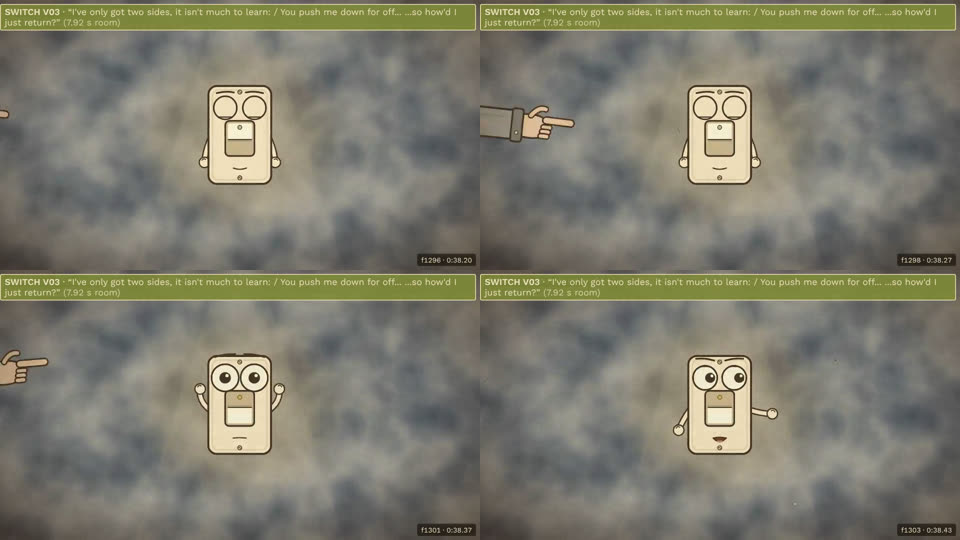
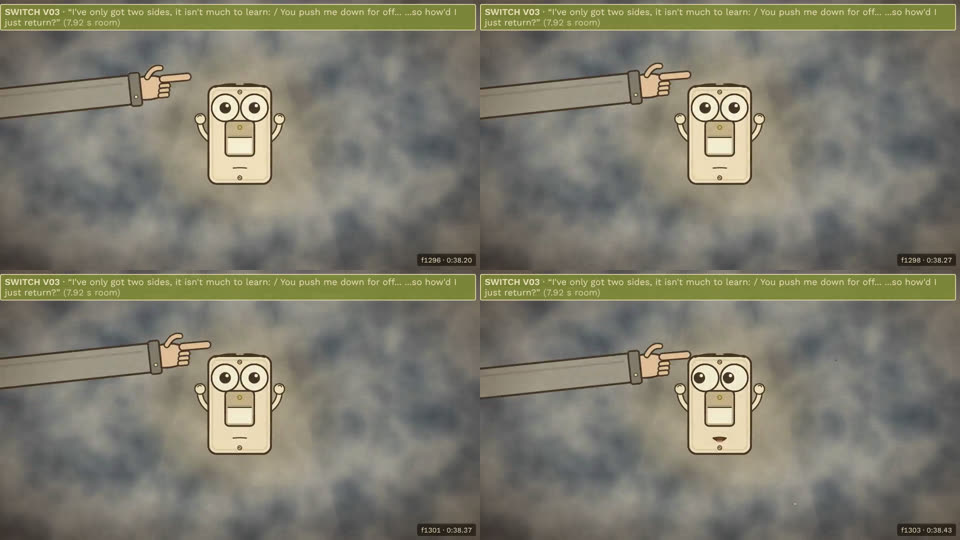
M3 revised: S11 lands on the click, S57a-c added, post-roll (card G placeholder, S68 stand-in); brief rev 61
Claude-Session: https://claude.ai/code/session_01U1tVYjDQe516Mp7MHbmFPv

diff --git a/remotion/src/shots/End.tsx b/remotion/src/shots/End.tsx
@@ -149,11 +149,58 @@ const Classroom: React.FC<{ f: number; g: number; lineId?: string }> = ({ f, g, 
   </Bg>
 );
 
-// S57: the final chorus, through the second-to-last line
-export const S57: ShotC = ({ f, g }) => {
-  const id = ["L61", "L62", "L63", "L64"].reverse().find((l) => g >= at(line(l).start) - 6) ?? "L61";
-  const g0 = at(line(id).start) - 6;
-  return <Classroom f={g - g0 + 6} g={g} lineId={id} />;
+// S57: the final chorus's first line, "Default on! Default on!": the whole classroom
+export const S57: ShotC = ({ f, g }) => <Classroom f={f} g={g} lineId="L61" />;
+
+// a row of desks seen low and close: three kids and their rockers; `gag` stages S57b's attempts to switch them off
+const Desks: React.FC<{ f: number; g: number; len: number; lineId: string; gag?: boolean }> = ({ f, g, len, lineId, gag }) => (
+  <Bg id="s57a" seed={57} base={C.mustard}>
+    {[0, 1, 2].map((i) => {
+      const x = 380 + i * 580, seed = 3 + i * 2;
+      const beat = (len / 3) * i; // S57a: rockers rock ON one after another; S57b: one gag per kid, in turn
+      const t = f - beat;
+      const covered = gag && t > 6 && t < len / 3 - 10;
+      const on = gag ? !covered || t > len / 3 - 14 : f > beat + 6;
+      return (
+        <g key={i}>
+          <g transform={`translate(${x}, 420) scale(1.25)`}><Kid seed={seed} mouth={mouthAt(g + seed * 2, "narrator")} look={gag ? [0.4, 0.9] : [0, 0]} /></g>
+          <rect x={x - 260} y={700} width={520} height={60} fill={C.cardigan} stroke={C.ink} strokeWidth={7} />
+          <rect x={x - 240} y={760} width={480} height={330} fill={C.cardiganShade} stroke={C.ink} strokeWidth={7} />
+          <g transform={`translate(${x + 120}, ${640 - (on && !gag ? bump(t, 6, 5) * 24 : 0)})`}><MiniRocker on={on ? 1 : 0} s={1.1} /></g>
+          {/* S57b's three gags: a book over it, a hand over it, tucked into the desk; each pops back ON */}
+          {gag && covered && i === 0 && <rect x={x + 30} y={560} width={190} height={150} rx={8} fill={C.teal} stroke={C.ink} strokeWidth={6} transform={`rotate(-6, ${x + 120}, 640)`} />}
+          {gag && covered && i === 1 && <ellipse cx={x + 120} cy={630} rx={90} ry={70} fill={(["#f0c49b", "#c98b5e", "#8d5a3a"])[i]} stroke={C.ink} strokeWidth={6} />}
+          {gag && covered && i === 2 && <rect x={x + 40} y={590} width={160} height={110} fill={C.cardigan} stroke={C.ink} strokeWidth={6} />}
+          {gag && !covered && t > len / 3 - 14 && t < len / 3 - 4 && <text x={x + 120} y={520} textAnchor="middle" fontFamily={BUBBLE} fontSize={60} fill={C.orange} stroke={C.ink} strokeWidth={4} paintOrder="stroke">ON!</text>}
+        </g>
+      );
+    })}
+    <Lyric id={lineId} f={f} g={g} y={1030} size={58} />
+  </Bg>
+);
+// S57a: "It was there when we woke up…": low and close along a row of desks; the rockers rock ON one after another
+export const S57a: ShotC = ({ f, g, len }) => <Desks f={f} g={g} len={len} lineId="L62" />;
+// S57b: "We can hide it, we can mute it…": the kids try the chorus gags on their own switches; each rocks back ON
+export const S57b: ShotC = ({ f, g, len }) => <Desks f={f} g={g} len={len} lineId="L63" gag />;
+
+// S57c: "But the switch is just a picture…": close on Switch in the front row, mouthing along; a corner of his plate
+// lifts like a sticker, and he presses it flat again
+export const S57c: ShotC = ({ f, g, len }) => {
+  const lift = ez(f, len * 0.35, len * 0.5) * (1 - ez(f, len * 0.7, len * 0.8));
+  const d = 20 + lift * 90;
+  const fx = 125, fy = 195;
+  return (
+    <Bg id="s57c" seed={57} base={C.mustard}>
+      <rect x={0} y={860} width={W} height={220} fill={C.cardigan} stroke={C.ink} strokeWidth={8} />
+      {[260, 1660].map((x, i) => <g key={x} transform={`translate(${x}, 560) scale(1.1)`} opacity={0.85}><Kid seed={8 + i} mouth={mouthAt(g + i * 3, "narrator")} /></g>)}
+      <g transform="translate(960, 520) scale(1.25)">
+        <clipPath id="s57c-peel"><path d={`M-600,-600 L600,-600 L600,${fx + fy - d - 600} L${fx + fy - d - 600},600 L-600,600 Z`} /></clipPath>
+        <g clipPath="url(#s57c-peel)"><Switch pose={lift > 0.3 ? "startled" : "neutral"} mouth={mouthAt(g, "narrator")} armR={lift > 0.5 ? 60 : 25} look={lift > 0.3 ? [0.6, 0.7] : [0, 0]} blink={blink(g, 11)} /></g>
+        <path d={`M${fx},${fy - d} L${fx - d},${fy} L${fx - d},${fy - d} Z`} fill={C.white} stroke={C.ink} strokeWidth={5} strokeLinejoin="round" />
+      </g>
+      <Lyric id="L64" f={f} g={g} y={1030} size={58} />
+    </Bg>
+  );
 };
 
 // S58: last "Default on!": pull back; the classroom is on the TV from S29, with the winking tile from S30
@@ -242,6 +289,19 @@ export const S64: ShotC = ({ f, g, len }) => {
     </Bg>
   );
 };
+
+// FG: fact card G, after S67's hold (M5 builds the cards; this marks its place and length)
+export const FG: ShotC = () => (
+  <Bg id="fg" seed={70}>
+    <text x={W / 2} y={470} textAnchor="middle" fontFamily={SANS} fontWeight={600} fontSize={60} fill={C.ink}>Fact card G</text>
+    <text x={W / 2} y={560} textAnchor="middle" fontFamily={SANS} fontSize={40} fill={C.inkSoft}>Who wrote this, and Anthropic's own default-on toggle (built in M5)</text>
+  </Bg>
+);
+
+// S68: the creator's disclosure, real footage the human shoots, with its caption (brief rev 61)
+export const S68: ShotC = () => (
+  <Stand label="S68 · REAL FOOTAGE · TOP-DOWN, ~5 s" note="Google and Microsoft swag laid out neatly on a plain surface, Noogler hat on top. Caption: “Made by a former Google and Microsoft employee, who holds no stock in either. Nothing here comes from the inside: every claim is from public reporting, sourced on the cards that follow.”" />
+);
 
 // S65-S67: real material. Until it lands, stand-ins say what goes there; the film layer is off from S65 (Cut.tsx)
 export const S65: ShotC = () => <Stand label="S65 · REAL SCREEN CAPTURE" note="The generation screen: style prompt, lyrics, take list (the human supplies it)" />;

diff --git a/remotion/src/shots/Chorus.tsx b/remotion/src/shots/Chorus.tsx
@@ -35,22 +35,25 @@ export const S09: ShotC = ({ f, g }) => <Lament f={f} g={g} />;
 export const S35: ShotC = ({ f, g }) => <Lament f={f} g={g} dim={1} hand />;
 
 // S10: "You push me down for off…": he pulls himself down to OFF, exhales, closes his eyes
-export const S10: ShotC = ({ f, g }) => {
+// In its last half second the grey sleeve starts reaching in, so S11's flip (8 frames) lands on the click
+export const S10: ShotC = ({ f, g, len }) => {
   const off = ez(f, 4, 16);
+  const reach = ez(f, len - 15, len) * 0.82;
   return (
     <Night id="pc">
       <g transform={`translate(${W / 2}, ${540 + off * 8})`}>
         <Switch pose={off > 0.5 ? "relaxed" : "sad"} toggle={1 - off} mouth={mouthAt(g, "switch")} armL={60 - off * 50} armR={60 - off * 50} blink={off > 0.9 ? 1 : 0} />
       </g>
+      {reach > 0 && <g transform="translate(-40, 480) rotate(6)"><Hand reach={reach} length={880} /></g>}
     </Night>
   );
 };
 
-// S11 / S36: [click]: the grey sleeve enters from frame left and flips him back up (S36 faster)
+// S11 / S36: [click]: the grey sleeve flips him back up on the click. In S11 (8 frames) the hand is already reaching
+// (S10) and the flip lands on frame 0; S12 carries the withdrawal. S36, the faster second time, enters and flips here
 const Flip: React.FC<{ f: number; len: number; fast?: boolean }> = ({ f, len, fast }) => {
-  const k = fast ? 0.5 : 1;
-  const reach = ez(f, 0, 6 * k) * (1 - ez(f, len - 6 * k, len));
-  const flipped = f >= 4 * k;
+  const reach = fast ? ez(f, 0, 3) * (1 - ez(f, len - 3, len)) : 0.82 + 0.18 * ez(f, 0, 2);
+  const flipped = fast ? f >= 2 : true;
   return (
     <Night id="pc" dim={fast ? 1 : 0}>
       <g transform={`translate(${W / 2}, 540)`}><Switch pose={flipped ? "startled" : "relaxed"} toggle={flipped ? 1 : 0} blink={flipped ? 0 : 1} /></g>
@@ -61,14 +64,18 @@ const Flip: React.FC<{ f: number; len: number; fast?: boolean }> = ({ f, len, fa
 export const S11: ShotC = ({ f, len }) => <Flip f={f} len={len} />;
 export const S36: ShotC = ({ f, len }) => <Flip f={f} len={len} fast />;
 
-// S12: "…so how'd I just return?": he looks left and right; nobody's there
-export const S12: ShotC = ({ f, g }) => (
-  <Night id="pc">
-    <g transform={`translate(${W / 2}, 540)`}>
-      <Switch pose="curious" toggle={1} mouth={mouthAt(g, "switch")} look={[Math.sin(f / 9) > 0 ? -1 : 1, 0]} />
-    </g>
-  </Night>
-);
+// S12: "…so how'd I just return?": the hand slips away (S11's withdrawal); he looks left and right; nobody's there
+export const S12: ShotC = ({ f, g }) => {
+  const reach = 1 - ez(f, 0, 8);
+  return (
+    <Night id="pc">
+      <g transform={`translate(${W / 2}, 540)`}>
+        <Switch pose={f < 8 ? "startled" : "curious"} toggle={1} mouth={mouthAt(g, "switch")} look={f < 10 ? [-1, 0] : [Math.sin(f / 9) > 0 ? -1 : 1, 0]} />
+      </g>
+      {reach > 0 && <g transform="translate(-40, 460) rotate(-6)"><Hand reach={reach} length={880} /></g>}
+    </Night>
+  );
+};
 
 // S13: "Default on! Default on!": bright mustard; bubble-letter lyrics with a bouncing ball; rockers flick on in time
 export const S13: ShotC = ({ f, g }) => (

diff --git a/remotion/src/timing.ts b/remotion/src/timing.ts
@@ -26,13 +26,13 @@ export const beats = map.beats.map(at);
 export const downbeats = map.downbeats.map(at);
 export const events = map.events;
 
-// every shot in order, with its frame range; S67 holds HOLD_S past the audio (brief) before the fact cards
-export const HOLD_S = 2;
-export const END = at(map.events.audio_end + HOLD_S);
-export const shots = map.shots.map((s, i) => ({
-  id: s.id, cue: s.cue, frame: s.frame as number,
-  end: i + 1 < map.shots.length ? (map.shots[i + 1].frame as number) : END,
-}));
+// every shot in order, with its frame range, plus the post-roll so far: S67 holds 2 s past the audio, then fact
+// card G ("FG") and S68 (map.post; the other fact cards and the end card come in M5)
+export const END = map.video_end_frame;
+const ordered = [...map.shots.map((s) => ({ id: s.id, cue: s.cue, frame: s.frame as number })),
+  ...map.post.filter((p) => p.id === "FG").map((p) => ({ id: p.id, cue: "Fact card G (who wrote this; Anthropic's default-on toggle)", frame: p.frame }))]
+  .sort((a, b) => a.frame - b.frame);
+export const shots = ordered.map((s, i) => ({ ...s, end: i + 1 < ordered.length ? ordered[i + 1].frame : END }));
 
 // placeholder mouths until M4's Rhubarb pass: inside an aligned word (or a proposed Switch slot) the mouth cycles
 // open shapes every 3 frames; otherwise it rests

diff --git a/scripts/timing_map.py b/scripts/timing_map.py
@@ -48,6 +48,9 @@ SLOTS = {  # Switch line: aligned line IDs (timing/words.json) of the generator'
 TAG_AFTER = {"V04": "L14", "V11": "L38"}  # ungenerated tags: after this line's last word
 TAG_LEN = 2.4  # proposed length of an ungenerated "(On, on, on...)" tag, seconds
 V21_GAP = 0.6  # V21 starts this long after the Narrator's last word
+HOLD_S = 2.0  # S67 holds on room tone after the audio ends (brief); keep in step with remotion/src/timing.ts
+CARD_S = 4.0  # a fact card (brief: about four seconds each)
+S68_S = 5.0  # S68, the swag shot (brief: about five seconds)
 SECTIONS = [  # brief section (one composition each): the as-sung sections it covers
     ("Intro", ["Intro"]), ("Verse 1", ["Verse 1"]), ("Pre-chorus 1", ["Pre-chorus 1"]), ("Chorus 1", ["Chorus 1"]),
     ("Lesson", ["Lesson"]), ("Verse 2", ["Verse 2"]), ("Pre-chorus 2 and Chorus 2", ["Pre-chorus 2", "Chorus 2"]),
@@ -206,6 +209,7 @@ def main():
         "S60": (ob[0], "L66", "first outro click"),
         "S63": (events["popup_chime"], "L68", "chime in the gap; \"Huh.\" is not sung"),
         "S67": (v21["proposed"][0], "L71", "V21 over the band's tail; the hand flips on the last note; holds past the audio"),
+        "S68": (audio_end + HOLD_S + CARD_S, "L71", "post-roll: after fact card G"),
     }
     cur = 0
     for s in shots:
@@ -238,12 +242,20 @@ def main():
         cur = hit[0]
         s.update(t=round(hit[1], 3), line=lines[cur]["id"],
                  how="cue words" + (f" (first {hit[2]} not sung)" if hit[2] else ""))
+    # the post-roll so far (brief, End card and fact cards): S67's hold, fact card G, then S68; the other cards are M5's
+    post = [{"id": "FG", "what": "fact card G", "t": round(audio_end + HOLD_S, 3), "len_s": CARD_S},
+            {"id": "S68", "what": "the swag shot (real footage)", "t": round(audio_end + HOLD_S + CARD_S, 3), "len_s": S68_S}]
+    for p in post:
+        p["frame"] = fr(p["t"])
+    video_end = fr(audio_end + HOLD_S + CARD_S + S68_S)
     for k, s in enumerate(shots):
         s["frame"] = fr(s["t"])
-        nxt = shots[k + 1]["t"] if k + 1 < len(shots) else None
+        nxt = shots[k + 1]["t"] if k + 1 < len(shots) else audio_end + HOLD_S + CARD_S + S68_S
+        if s["id"] == "S67":
+            nxt = post[0]["t"]  # S67 hands over to fact card G
         s["end"] = nxt
         s["frame_end"] = fr(nxt) if nxt is not None else None
-    shots[-1]["note"] = "real footage; the shot runs past the audio (hold two seconds on room tone, then black)"
+    next(s for s in shots if s["id"] == "S67")["note"] = "real footage; runs past the audio, holding 2 s on room tone, then fact card G"
 
     for ln in lines:
         ln["frame_start"], ln["frame_end"] = fr(ln["start"]), fr(ln["end"])
@@ -251,7 +263,7 @@ def main():
     out = {"title": TITLE, "fps": FPS, "preroll_s": PREROLL_S, "audio": TRACK, "duration_s": duration,
            "duration_frames": fr(duration), "frame_formula": "round((t + preroll_s) * fps)", "meter": "4/4",
            "bpm_median": round(60 / float(np.median(iv)), 1), "beats": beats["beats"], "downbeats": beats["downbeats"],
-           "events": events, "sections": secs, "switch_slots": slots, "lines": lines, "shots": shots}
+           "events": events, "post": post, "video_end_frame": video_end, "sections": secs, "switch_slots": slots, "lines": lines, "shots": shots}
     Path("timing/map.json").write_text(json.dumps(out, indent=1) + "\n")
 
     md = [f"# Timing map: {TITLE}", "", f"Generated by `scripts/timing_map.py` from `timing/map.json`. {FPS} fps; "

diff --git a/scripts/contact_sheets.py b/scripts/contact_sheets.py
@@ -1,8 +1,8 @@
 """Review aid (brief, Pipeline): one contact sheet per shot, review/<shot>.jpg, from a rendered video of the whole cut.
 Four frames per shot (at 10%, 35%, 65% and 90% of its range on screen) tiled 2x2, each 480 px wide; the render's own
-burn-in names the shot and frame. Shot ranges come from timing/map.json (S67 holds 2 s past the audio, as in
-remotion/src/timing.ts). A section render starts at frame <offset> of the cut; only the shots inside it get sheets.
-Each frame is seeked to directly, so a sheet doesn't decode the whole video.
+burn-in names the shot and frame. Shot ranges come from timing/map.json, with the post-roll so far (fact card G as
+"FG", then S68) and the video's end from it. A section render starts at frame <offset> of the cut; only the shots
+inside it get sheets. Each frame is seeked to directly, so a sheet doesn't decode the whole video.
 
 Usage: python3 -I scripts/contact_sheets.py <video> [<offset> <frames>]
 """
@@ -12,14 +12,13 @@ import sys
 import tempfile
 from pathlib import Path
 
-HOLD_S = 2  # keep in step with remotion/src/timing.ts
-
 
 def ranges():
     m = json.loads(Path("timing/map.json").read_text())
-    end = round((m["events"]["audio_end"] + HOLD_S + m["preroll_s"]) * m["fps"])
-    s = m["shots"]
-    return m["fps"], [(x["id"], x["frame"], s[i + 1]["frame"] if i + 1 < len(s) else end) for i, x in enumerate(s)]
+    s = sorted([(x["id"], x["frame"]) for x in m["shots"]] + [(p["id"], p["frame"]) for p in m["post"] if p["id"] == "FG"],
+               key=lambda x: x[1])
+    end = m["video_end_frame"]
+    return m["fps"], [(sid, a, s[i + 1][1] if i + 1 < len(s) else end) for i, (sid, a) in enumerate(s)]
 
 
 def main(video, offset=0, length=None):

diff --git a/docs/brief.md b/docs/brief.md
@@ -27,7 +27,7 @@
 **Protecting the child**
 
 - His face, name, school and home never appear. The reveal shows hands, a phone or mic, a waveform and a light switch, framed tight so no room details identify the house.
-- Credit him as you choose; the default is "Switch: voiced by a real kid." Record your consent as his guardian in the intervention log.
+- Credit him as you choose; the credit is "Switch: voiced by a child of two ex-Googlers and ex-Microsofties." Record your consent as his guardian in the intervention log.
 - Raw takes stay out of the public repo by default. Publish only the comped, processed lines that are in the final mix, and note in the log that the raw takes are withheld.
 
 ## Recording plan for Switch
@@ -72,7 +72,7 @@
 
 **Characters**
 
-- **Switch.** A cream wall plate with a toggle for a nose, big round eyes, stubby arms and no legs; he travels by hopping off the wall onto other surfaces. Poses: neutral, curious, proud, sad, flipped-on (startled, toggle up) and off (relaxed, toggle down). Seven mouth shapes, driven by the comped Switch track.
+- **Switch.** A cream flat-plate (rocker) wall switch: a flat paddle in the middle of the plate rocks top-in for ON and bottom-in for OFF, with a small pilot light that glows when ON (no lever, so nothing can be misread). Big round eyes, stubby arms and no legs; he travels by hopping off the wall onto other surfaces. Poses: neutral, curious, proud, sad, flipped-on (startled, paddle top-in) and off (relaxed, paddle bottom-in). Seven mouth shapes, driven by the comped Switch track.
 - **The Narrator.** A hand-drawn host in a brown cardigan and wide collar, seen from the waist up, seated on a stool or leaning on a chalkboard. Relaxed and slightly rumpled; he never looks at the off-screen hand. Seven mouth shapes, driven by the Narrator stem.
 - **The off-screen hand.** Only a cuff and fingers, entering from the frame edge. Same grey sleeve every time; no face is ever attached.
 - **Kids at desks** (final chorus only). Simple, generic, varied cartoon kids. None is drawn to resemble the real child.
@@ -90,7 +90,7 @@
 
 ## Shot list
 
-**6****8 shots (S00–S67)**** plus fact cards, each cued by a lyric line; the timing map in M1 turns cues into frames.** Switch's lines are marked with their recording IDs, so shots can be animated against the gap and lip-synced when the take lands.
+**6****9 shots (S00–S68****)**** plus fact cards, each cued by a lyric line; the timing map in M1 turns cues into frames.** Switch's lines are marked with their recording IDs, so shots can be animated against the gap and lip-synced when the take lands.
 
 **Source key:** **A** animated in Remotion · **R** real screen capture · **H** real footage the human shoots · **E** sound or edit event.
 
@@ -99,10 +99,10 @@
 | ID | Cue | Picture | Source |
 | --- | --- | --- | --- |
 | S00 | Before the audio starts (about 2 s of room tone, added in the edit) | Pre-roll card on cream paper: "A cartoon for grown-ups about tech settings." Plain sans, warm dark-brown ink, film layer on, no bubble letters and no characters, so it reads as a label rather than a title. Cut straight to S01's countdown | A |
-| S01 | Downbeat, before the first line | Film-leader countdown, then the title card "DEFAULT ON" in bubble letters on mustard. A small toggle under the title flips itself from OFF to ON | A |
+| S01 | Downbeat, before the first line | Film-leader countdown, then the title card "DEFAULT ON" in bubble letters on mustard. A small rocker switch under the title rocks itself from OFF to ON | A |
 | S02 | "Hi, grown-ups! Today we're learning how an opt-out works." (regenerated) | Narrator on a stool by a chalkboard reading "TODAY: HOW AN OPT-OUT WORKS" | A |
 | S03 | "Say hello to Little Switch!" | Pan right along the wall to a wall plate; Switch's eyes open | A |
-| S04 | V01 "Hi! I've got two sides…" | Switch waves, then demonstrates: toggle up, an "ON" label pops; toggle down, "OFF" | A |
+| S04 | V01 "Hi! I've got two sides…" | Switch waves, then demonstrates: paddle rocks to ON, an "ON" label pops; rocks back, "OFF" | A |
 
 ### Verse 1
 
@@ -118,7 +118,7 @@
 | ID | Cue | Picture | Source |
 | --- | --- | --- | --- |
 | S09 | V03 "I've only got two sides…" | Night-blue background, one spotlight; Switch alone on the wall, singing slowly | A |
-| S10 | "You push me down for off…" | Switch pulls himself down to OFF, exhales, closes his eyes | A |
+| S10 | "You push me down for off…" | Switch pulls himself down to OFF, exhales, closes his eyes. In the last half second the grey sleeve starts reaching in from frame left, so S11's flip (only 8 frames, in the 0.45 s gap) lands on the click | A |
 | S11 | [click] | The grey sleeve enters from frame left and flips him back up. Click from the real-switch recordings | A, E |
 | S12 | "…so how'd I just return?" | Switch looks left and right; nobody's there | A |
 
@@ -200,7 +200,10 @@
 
 | ID | Cue | Picture | Source |
 | --- | --- | --- | --- |
-| S57 | Final chorus, through the second-to-last line | A classroom of cartoon kids, each with a little toggle on the desk; the toggles flick ON in rhythm. Bubble-letter lyrics with a bouncing ball. Switch in the front row, mouthing along | A |
+| S57 | Final chorus, first line: "Default on! Default on!" | A classroom of cartoon kids, each with a little rocker switch on the desk; the switches rock ON in rhythm. Bubble-letter lyrics with a bouncing ball. Switch in the front row, mouthing along | A |
+| S57a | "It was there when we woke up…" | Low and close along a row of desks: the kids sing while their rocker switches rock ON one after another, in rhythm | A |
+| S57b | "We can hide it, we can mute it…" | The kids try the chorus gags on their own switches: a book laid over one, a hand clapped over another, one tucked into a desk. Each rocks back ON | A |
+| S57c | "But the switch is just a picture…" | Close on Switch in the front row, mouthing along; a corner of his plate lifts like a sticker, and he presses it flat again | A |
 | S58 | Last "Default on!" | Pull back: the classroom is on the TV from S29, with the winking tile from S30 | A |
 
 ### Outro and reveal
@@ -216,11 +219,12 @@
 | S65 | "An AI did." | Film layer drops to zero. Real screen capture of the generation screen: style prompt, lyrics, take list | R |
 | S66 | "…But somebody asked it to." | Split frame. Left: the generation screen. Right: the editing timeline with the Switch track labelled "Switch: recorded at home," its waveform playing | R |
 | S67 | V21 "Hey… was its switch on, too?" over the band's last bars, then the audio ends (the band plays to the end of the file; there is no silence after the last word) | Real close-up of a light switch on a plain wall. On V21, a small hand reaches in and waits; on the band's last note it flips the switch OFF. It stays off. Hold two seconds on room tone after the audio ends, then cut to fact card G | H |
+| S68 | After fact card G, room tone only | Real top-down shot, about five seconds: Google and Microsoft swag laid out neatly on a plain surface, Noogler hat on top. Caption: "Made by a former Google and Microsoft employee, who holds no stock in either. Nothing here comes from the inside: every claim is from public reporting, sourced on the cards that follow." Neutral, even fond; never discarded or binned | H |
 
 ### End card and fact cards
 
-- **End card:** lyrics drafted by Claude (Anthropic) and audited by another lab's model; music by the generator, with take ID; Narrator generated; Switch voiced by a real kid; animation by Claude Code; the human chose, edited and fact-checked every claim, with audits by Gemini, ChatGPT and Copilot; the count of human interventions, with a link to the log.
-- **Fact cards:** card G (who wrote this, and Anthropic's own default-on toggle) first, answering V21; then one per row of the Default On fact card, in that order, about four seconds each, in plain type with the source under each. Allegations say so.
+- **End card:** lyrics drafted by Claude (Anthropic) and audited by another lab's model; music by the generator, with take ID; Narrator generated; Switch voiced by a child of two ex-Googlers and ex-Microsofties; animation by Claude Code; the human chose, edited and fact-checked every claim, with audits by Gemini, ChatGPT and Copilot; the count of human interventions, with a link to the log.
+- **Fact cards:** card G (who wrote this, and Anthropic's own default-on toggle) first, answering V21; then S68, the creator's own disclosure; then one per row of the Default On fact card, in that order, about four seconds each, in plain type with the source under each. Allegations say so.
 
 **Thumbnail:** Switch mid-flip with the grey hand reaching in. Never the real hand, the generation screen or the timeline, which would spoil the reveal.
 
@@ -235,7 +239,7 @@
 - The locked master and its stems (Narrator vocal, instrumental, and any others the generator gave), with the take ID, prompt and settings.
 - A screen capture of the generation screen showing the style prompt, lyrics and take list (for S65–S66).
 - Switch's takes V01–V19 and V21, the 20 real-switch clicks and 10 seconds of room tone (see the recording plan).
-- About ten seconds of real footage for S67: a close-up of a small hand flipping a light switch off, shot tight on plain wall, phone held still, 4K if possible.
+- About ten seconds of real footage for S67: a close-up of a small hand flipping a light switch off, shot tight on plain wall, phone held still, 4K if possible. Plus about five seconds for S68: the swag from above on a plain surface, with nothing written, internal or badge-like in frame.
 - The Default On doc (lyrics, fact card) and this brief.
 
 **Pipeline**

diff --git a/log/production_log.md b/log/production_log.md
@@ -93,3 +93,12 @@ Append-only. One entry per action: timestamp, step (shot ID where relevant), wha
 - **Commands:** `npx tsc --noEmit`; `npx remotion render src/index.ts SpotCheck <dir> --sequence`; `npx remotion render src/index.ts Animatic ../renders/m3/m3_animatic.mp4 --concurrency=8 --crf=26` (5 min 42 s, about 22 fps); `python3 -I scripts/contact_sheets.py renders/m3/m3_animatic.mp4` (new port: seeks each frame directly).
 - **Outputs:** `remotion/src/**`, `renders/m3/m3_animatic.mp4`, `review/S00.jpg` … `review/S67.jpg`
 - **Why:** the brief, M3.
+
+## 2026-11-06T10:20:00-05:00 — M3 revised: S11 timing, S57a–c, the post-roll (card G, S68)
+
+- **What:** Re-read the brief (rev 58): S68 added after fact card G; the credit changed; S68's footage added to Inputs. Edited the brief (rev 58 → 61): S57 now cues the final chorus's first line; new rows S57a ("It was there when we woke up…": the desks, rockers rocking ON in turn), S57b ("We can hide it, we can mute it…": the kids try the gags on their own switches; each rocks back ON) and S57c ("But the switch is just a picture…": Switch close, a sticker corner lifting); S10's picture now says the sleeve starts reaching in its last half second. Re-mirrored the brief.
+- **Map:** `timing_map.py` adds the post-roll so far: S67 holds 2 s past the audio (251.15 s), fact card G for 4 s ("FG"), S68 for 5 s (255.15 s); `video_end_frame` 7954. S57a–c resolve to L62–L64. The other fact cards and the end card are M5's.
+- **Shots:** S10's last 15 frames bring the sleeve in to 82% reach; S11 (8 frames) flips him on its first frame; S12's first 8 frames withdraw the hand while he looks after it. S57 is the wide classroom on the first line; S57a–c new; FG is a placeholder card; S68 a stand-in carrying the brief's caption. `timing.ts` merges the post-roll into the shot list; `contact_sheets.py` reads it from the map.
+- **Commands:** docs `read` (rev 58, 61) and `update` (insert 3 rows; 2 find/replace); `python3 -I scripts/doc_to_md.py`; `.venv/bin/python -I scripts/timing_map.py`; stills of map frames 1288–1306 and a SpotCheck of S57–S68; the render below; `python3 -I scripts/contact_sheets.py renders/m3/m3_animatic.mp4`.
+- **Outputs:** `renders/m3/m3_animatic.mp4` (replaces the 09:40 render; regenerable from e33b2e7), 73 contact sheets (`review/S57a.jpg`, `S57b`, `S57c`, `FG`, `S68` new).
+- **Why:** the human's M3 notes (log/human_interventions.md, 10:05).

diff --git a/timing/map.md b/timing/map.md
@@ -121,7 +121,10 @@ Mute = the generator's attempt (muted in the final mix). Room = Narrator's word 
 | S54 | Bridge | V16 "And the answer box on top?" | 193.48 | 5954 | L57 | cue words |
 | S55 | Bridge | "…That one's 'deeply integrated.'" | 195.86 | 6026 | L58 | cue words |
 | S56 | Bridge | V17 "What's that mean?" / "It means it stays." | 197.80 | 6084 | L59 | cue words |
-| S57 | Final chorus | Final chorus, through the second-to-last line | 201.00 | 6180 | L61 | first final-chorus line |
+| S57 | Final chorus | Final chorus, first line: "Default on! Default on!" | 201.00 | 6180 | L61 | first final-chorus line |
+| S57a | Final chorus | "It was there when we woke up…" | 204.07 | 6272 | L62 | cue words |
+| S57b | Final chorus | "We can hide it, we can mute it…" | 207.61 | 6378 | L63 | cue words |
+| S57c | Final chorus | "But the switch is just a picture…" | 211.21 | 6486 | L64 | cue words |
 | S58 | Final chorus | Last "Default on!" | 217.99 | 6690 | L65 | last "Default on!" |
 | S59 | Outro and reveal | V18 "I've got two sides." | 219.88 | 6746 | L66 | cue words |
 | S60 | Outro and reveal | [click] [click] [click] | 221.32 | 6790 | L66 | first outro click |
@@ -132,6 +135,7 @@ Mute = the generator's attempt (muted in the final mix). Room = Narrator's word 
 | S65 | Outro and reveal | "An AI did." | 239.08 | 7322 | L71 | cue words |
 | S66 | Outro and reveal | "…But somebody asked it to." | 241.46 | 7394 | L71 | cue words |
 | S67 | Outro and reveal | V21 "Hey… was its switch on, too?" over the band's last bars, then the audio ends (the band plays to the end of the file; there is no silence after the last word) | 243.10 | 7443 | L71 | V21 over the band's tail; the hand flips on the last note; holds past the audio |
+| S68 | Outro and reveal | After fact card G, room tone only | 255.15 | 7804 | L71 | post-roll: after fact card G |
 
 ## Lines
 

diff --git a/log/human_interventions.md b/log/human_interventions.md
@@ -46,3 +46,13 @@ Every human action: timestamp, what, why, and which rule allows it. The brief al
 
 - **What:** The human, on the five key frames: "These are great, keep going. 1080p is fine for review with 4k at the final."
 - **Rule:** H2. The film layer stays at its current strength (no change asked).
+
+## 2026-11-06 (before 10:05) — Brief amended: S68 and the credit — EXCEPTION (declared)
+
+- **What:** Between the agent's rev 52 and rev 58, the brief gained S68 (a real top-down shot of the human's Google and Microsoft swag, with a disclosure caption, after fact card G), the S68 footage in Inputs, and a new credit: "Switch: voiced by a child of two ex-Googlers and ex-Microsofties."
+- **Rule:** H3 for the S68 footage when supplied. The disclosure and the credit are the human's own statements about themselves; the agent records them as written and makes no claim about them.
+
+## 2026-11-06T10:05 — M3 notes: S11 fix, new S57 shots — H2
+
+- **What:** The human: "fix S11 as you suggested, add new shots for S57. also re-read the brief, some things have changed (mostly regarding the bookends)".
+- **Rule:** H2 (shot-list decisions at the M3 gate). The brief was edited to match (rev 61). The M3 gate itself is still open.

diff --git a/log/renders.md b/log/renders.md
@@ -27,3 +27,9 @@ Every render: timestamp, shot ID, composition, props, commit hash, output, conta
 - **Command:** `npx remotion render src/index.ts Animatic ../renders/m3/m3_animatic.mp4 --log=error --concurrency=8 --crf=26`
 - **Commit:** built on 19eb99c + the M3 code (committed with this entry).
 - **Output:** `renders/m3/m3_animatic.mp4` (20.6 MB). Contact sheets: `review/S00.jpg` … `review/S67.jpg` (`scripts/contact_sheets.py`).
+
+## 2026-11-06T10:18 — M3 animatic, revised
+
+- **Shots:** S00–S68 and FG. **Composition:** `Animatic` (960x540), 7,954 frames (4:25.2): the cut through S67's hold, fact card G's placeholder, S68's stand-in.
+- **Command:** as at 09:40. **Commit:** built on e33b2e7 + the changes committed with this entry.
+- **Output:** `renders/m3/m3_animatic.mp4`; 73 contact sheets in `review/`.
